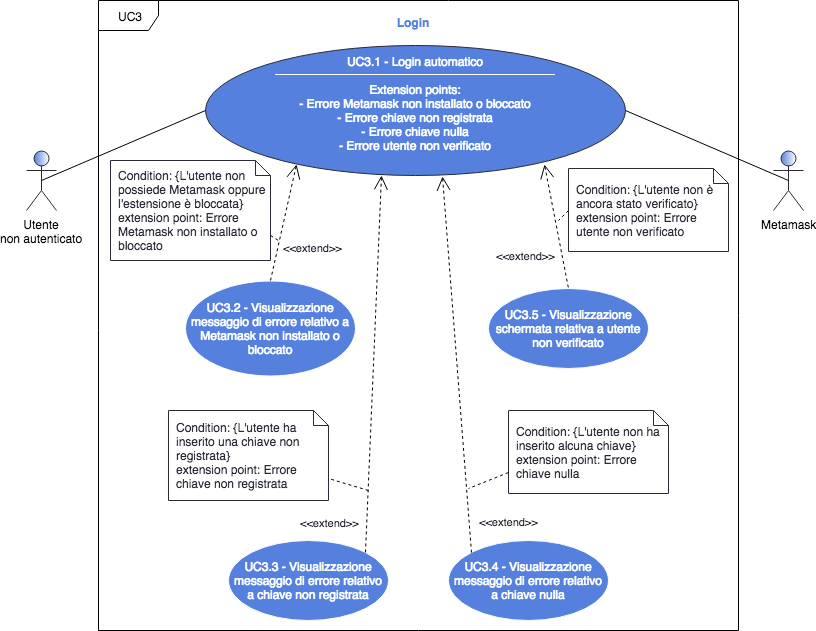
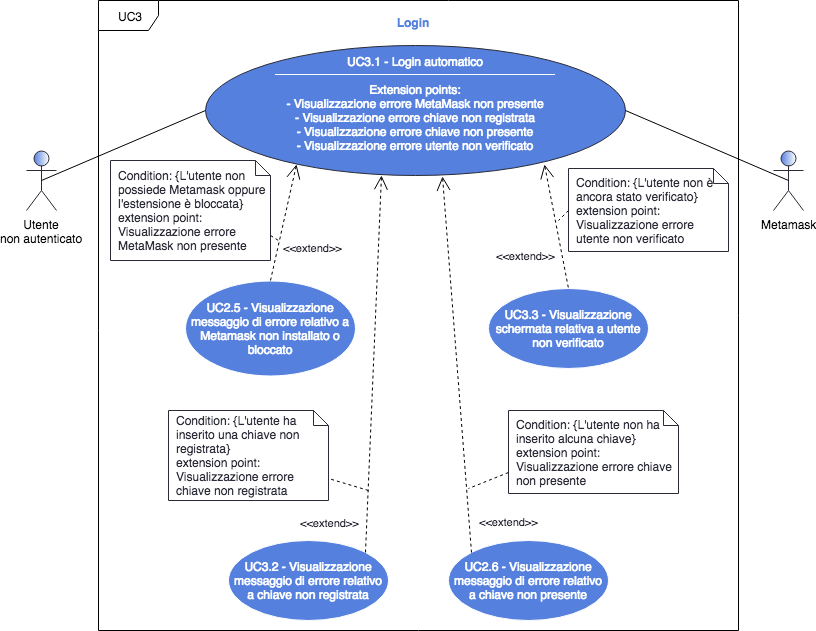
Altri fix UC3

diff --git a/RR/Esterni/Analisi_dei_requisiti/res/sections/casi_duso.tex b/RR/Esterni/Analisi_dei_requisiti/res/sections/casi_duso.tex
@@ -318,8 +318,8 @@ In questa sezione vi sono elencati tutti i casi d'uso individuati. Ogni caso d'u
 	\begin{itemize}
 		\item \textbf{UC2.5}: se l'utente non dispone di MetaMask o ha disabilitato l'estensione, viene visualizzato un messaggio di errore a riguardo;
 		\item \textbf{UC2.6}: se l'utente non possiede una chiave\glosp su MetaMask\glo, esso viene avvisato tramite l'apposito messaggio di errore;
-		\item \textbf{UC3.3}: se l'utente tenta di accedere al sito tramite MetaMask senza aver mai provveduto a registrarsi, riceverà un messaggio di errore a riguardo;
-		\item \textbf{UC3.5}: se l'utente si è registarto sul sito da poco ma non gli è ancora stato validato l'account, visualizzerà un messaggio di errore a riguardo.
+		\item \textbf{UC3.2}: se l'utente tenta di accedere al sito tramite MetaMask senza aver mai provveduto a registrarsi, riceverà un messaggio di errore a riguardo;
+		\item \textbf{UC3.3}: se l'utente si è registarto sul sito da poco ma non gli è ancora stato validato l'account, visualizzerà un messaggio di errore a riguardo.
 	\end{itemize}
 	\item \textbf{Precondizione}:
 	l'utente richiede alla piattaforma di venire identificato;
